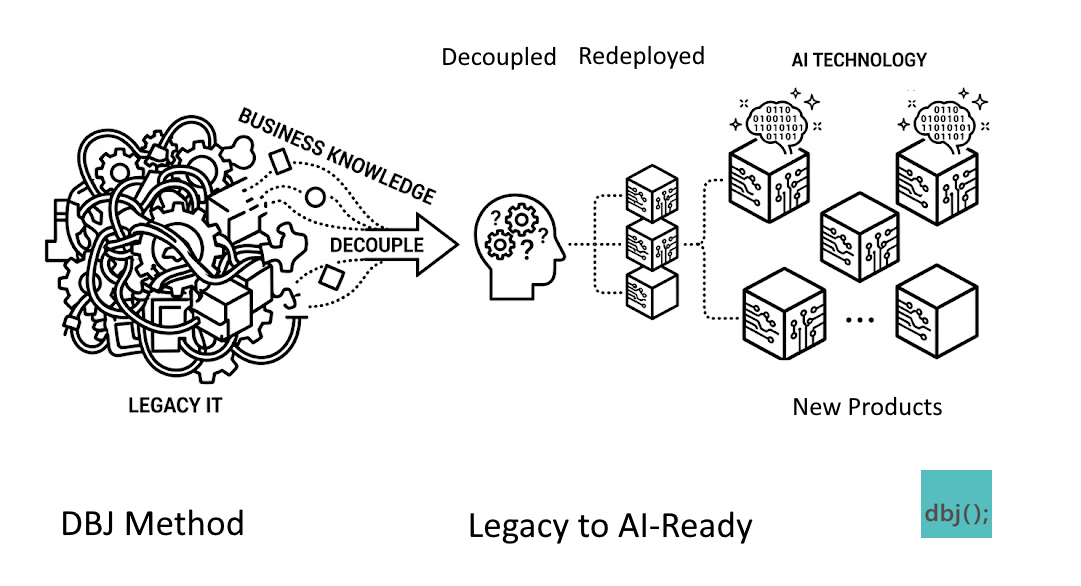
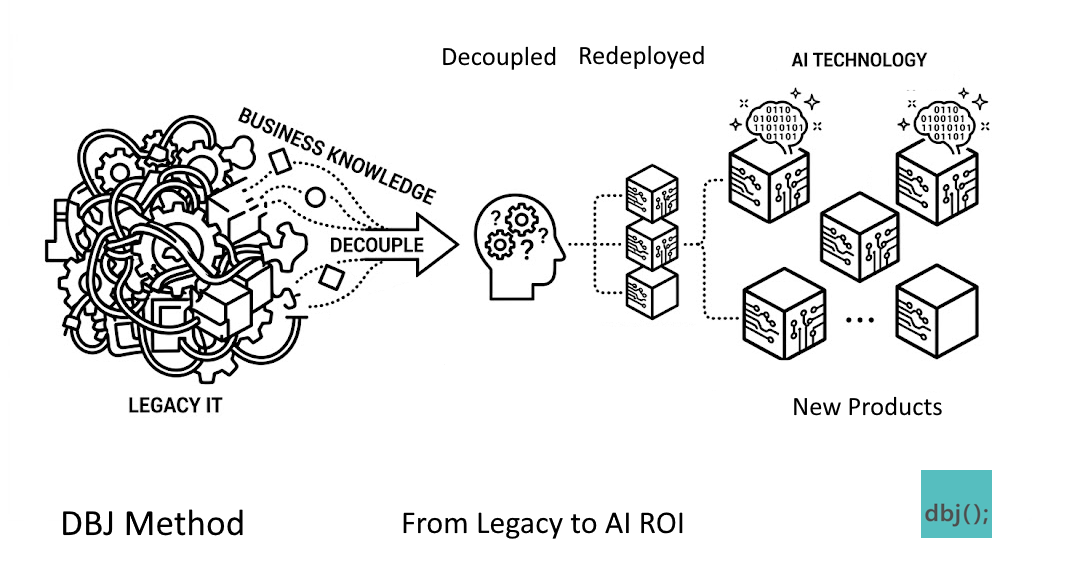
better wording

Changed region(s): [[0.3663, 0.8601, 0.7021, 0.9215]]

diff --git a/docs/index.md b/docs/index.md
@@ -8,36 +8,33 @@ description: Home
 
 ![from-chaos-to-ai](index_assests/empty-medieval-bridge.jpg)
 
-<p style="font-size:.8em" >From Chaos to ROI, over the brridge of the DBJ Method</p>
+<p style="font-size:.8em" >From Chaos to ROI, over the DBJ Method bridge</p>
 
-**Architecture nature is static. Architecture does not change after the building starts. That annoys the Business. DBJ Method nature is dynamic.**
+**Architecture nature is static. Architecture does not change after the building starts. That is not good for the Business**
 
-**DBJ Method uses simplified TOGAF EA artifacats to govern smooth running of the organization.**
+**DBJ Method uses simplified TOGAF EA artifacats to govern smooth running of the business.**
 
-**Part of DBJ Method, "BPT" is an endless loop of three segmenta. Business, Product and Technology. Business declares the Products, and Technology is implementing the Products.**
+**Part of DBJ Method, "BPT" is an loop workflow made of three domains: Business, Products and Technology. Business declares the Product, and Technology is implementing the Product**
 
-**The guiding principle of DBJ Method is to tailor the TOGAF artifacts, into the framework for feasible organisation running method.**
+**The guiding principle of DBJ Method is to tailor the TOGAF artifacts, into the framework for feasible sailing. DBJ Method is optimal path for a feasible business running**
 
-**This Method also exists to facilitate safe journey from legacy to AI enabled organizaton**
+**This Method exists to facilitate safe journey from the chaos of legacy to AI enabled organizaton. On the other side of the bridge**
 
-> General [AI Guidance](ai.md)
+> Detour for a very quick general [AI Guidance](ai.md) 
 {: note}
 
-## Method Adoption  
+## Adoption  
 
 **DBJ Method** is based on [TOGAF](https://www.opengroup.org/togaf). DBJ Method is a runtime flow keeping the organisation running in a feasible fashion. Repeatedly raising the AI Readines level.
 
-
-## The Method engagement has two stages:
+**The Method engagement has two stages:**
 
 - [On-boarding](#on-boarding)
 - [Business, Product, Technology Loop](#business-product-technology-loop)
 
-> Once it starts the BPT Loops never ends
-
 ## On-boarding
 
-In this step DBJ prepares clients for architecture-led delivery by putting them on firm (DBJ simplified) [capability maturity foundations](cmm.md#diagram).
+In the first step DBJ Method prepares clients for architecture-led delivery by putting them on firm (DBJ simplified) [capability maturity foundations](cmm.md#diagram).
 
 ### The [Maturity Levels](cmm.md#levels)
 
@@ -49,7 +46,7 @@ DBJ Method Practitioners are leading their client's current organisational matur
 
 <!-- Potential deliverable: ACMM baseline assessment + DBJ Method improvement roadmap -->
 
-### Raising the Client Organisation to CMM Level [L3](cmm.md#levels)
+#### Raising the Client Organisation to CMM Level [L3](cmm.md#levels)
 
 DBJ Method defines and documents architecture processes — moving the organisation from ad-hoc (L1) to defined (L3). By using this Method, DBJ Method Practitioners:
 
